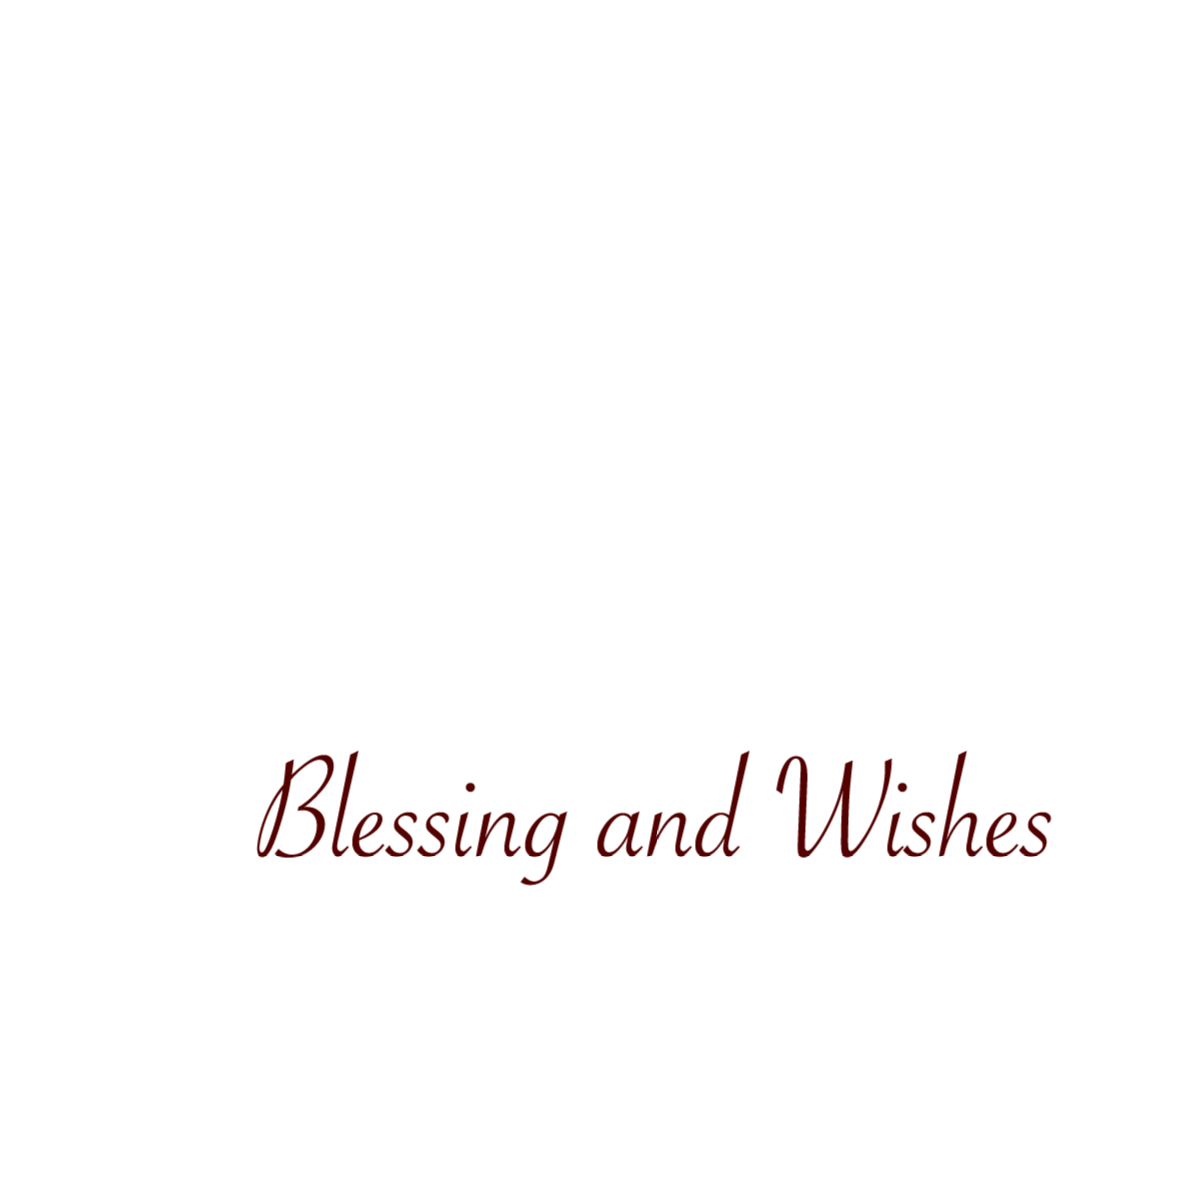
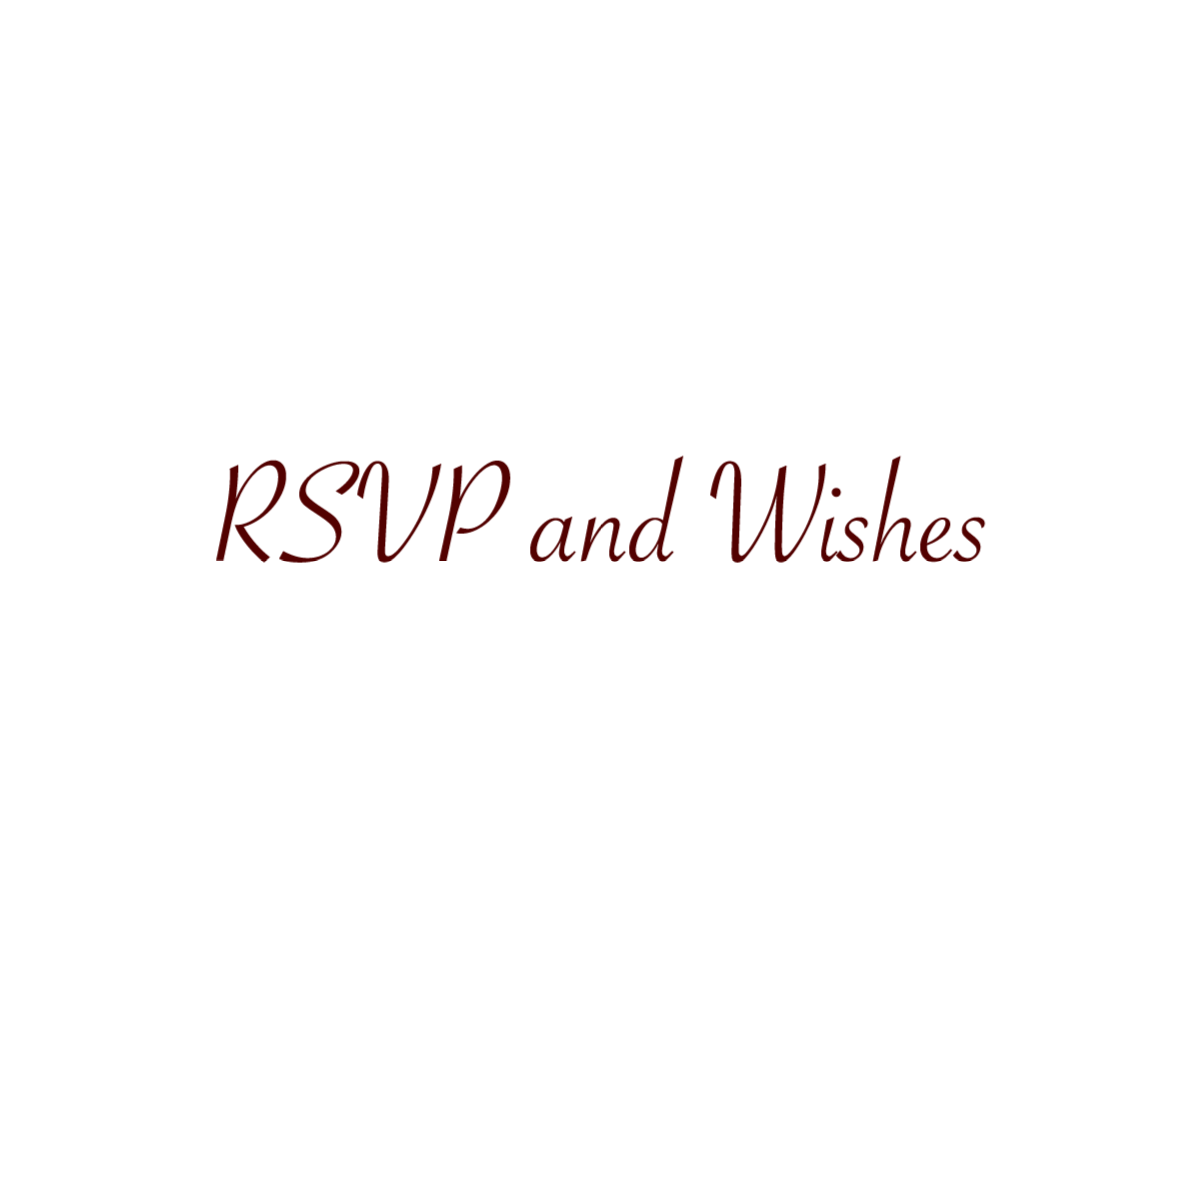
optimize performance and tone

Changed region(s): [[0.2134, 0.6401, 0.884, 0.7316], [0.4268, 0.3963, 0.823, 0.4877], [0.1829, 0.3658, 0.4572, 0.4877]]

diff --git a/components/CinematicScene.tsx b/components/CinematicScene.tsx
@@ -52,7 +52,7 @@ function ParallaxContent({ tex, index, multiplier, zOffset = 0, width, height }:
     return (
         <mesh ref={ref} position={[0, 0, zOffset]}>
             <planeGeometry args={[width, height]} />
-            <meshBasicMaterial map={tex} transparent />
+            <meshBasicMaterial map={tex} transparent toneMapped={false} />
         </mesh>
     );
 }
@@ -95,33 +95,24 @@ function ResponsiveBackground({
     const meshHeight = baseHeight * bgHeightMultiplier;
     const meshAspect = meshWidth / meshHeight;
     
-    // To prevent texture squishing/distortion, we clone the texture if scaled
-    // and adjust the repeat/offset to maintain "cover" aspect ratio.
-    const finalTex = useMemo(() => {
-        if (bgHeightMultiplier === 1 && bgWidthMultiplier === 1) {
-            return tex;
-        }
-        
-        const cloned = tex.clone();
-        
+    // Adjust texture transformation directly on the original instance safely 
+    // instead of wasting GPU allocations on .clone()
+    useEffect(() => {
+        if (!tex) return;
         if (meshAspect > imageAspect) {
-            // Mesh is wider than image: crop image vertically
-            cloned.repeat.set(1, imageAspect / meshAspect);
-            cloned.offset.set(0, (1 - imageAspect / meshAspect) / 2);
+            tex.repeat.set(1, imageAspect / meshAspect);
+            tex.offset.set(0, (1 - imageAspect / meshAspect) / 2);
         } else {
-            // Mesh is taller than image: crop image horizontally
-            cloned.repeat.set(meshAspect / imageAspect, 1);
-            cloned.offset.set((1 - meshAspect / imageAspect) / 2, 0);
+            tex.repeat.set(meshAspect / imageAspect, 1);
+            tex.offset.set((1 - meshAspect / imageAspect) / 2, 0);
         }
-        
-        cloned.needsUpdate = true;
-        return cloned;
-    }, [tex, bgHeightMultiplier, bgWidthMultiplier, meshAspect, imageAspect]);
+        tex.needsUpdate = true;
+    }, [tex, meshAspect, imageAspect]);
 
     return (
         <mesh position={[0, 0, LAYERS.BACKGROUND]} scale={[meshWidth, meshHeight, 1]} renderOrder={-10}>
             <planeGeometry />
-            <meshBasicMaterial map={finalTex} color="#ffffff" transparent={true} depthTest={false} depthWrite={false} />
+            <meshBasicMaterial map={tex} color="#ffffff" transparent={true} depthTest={false} depthWrite={false} toneMapped={true} />
         </mesh>
     );
 }
@@ -159,7 +150,7 @@ function SlideOrnament({ tex, x = 0, y = 0, bgW, bgH, size, delay, multiplier = 
     return (
         <mesh ref={ref} position={[worldX, worldY, LAYERS.ORNAMENTS + zOffset]}>
             <planeGeometry args={[size, size / aspect]} />
-            <meshBasicMaterial map={tex} transparent />
+            <meshBasicMaterial map={tex} transparent toneMapped={true} />
         </mesh>
     );
 }
@@ -221,7 +212,7 @@ function SlideText({ tex, x = 0, y = 0, bgW, bgH, size, delay, multiplier = 0, z
             onPointerOut={handlePointerOut}
         >
             <planeGeometry args={[size, size / aspect]} />
-            <meshBasicMaterial map={tex} transparent />
+            <meshBasicMaterial map={tex} transparent toneMapped={true} />
         </mesh>
     );
 }
@@ -264,7 +255,7 @@ function SlideHeartbeat({ tex, x = 0, y = 0, bgW, bgH, size, delay = 0, multipli
     return (
         <mesh ref={ref} position={[worldX, worldY, LAYERS.TEXT + zOffset]}>
             <planeGeometry args={[size, size / aspect]} />
-            <meshBasicMaterial map={tex} transparent />
+            <meshBasicMaterial map={tex} transparent toneMapped={true} />
         </mesh>
     );
 }
@@ -323,7 +314,7 @@ function SlideRotate({ tex, x = 0, y = 0, bgW, bgH, size, delay = 0, multiplier 
         <group ref={ref} position={[worldX, worldY, LAYERS.TEXT + zOffset]}>
             <mesh position={[0, meshOffsetY, 0]}>
                 <planeGeometry args={[size, height]} />
-                <meshBasicMaterial map={tex} transparent />
+                <meshBasicMaterial map={tex} transparent toneMapped={true}/>
             </mesh>
         </group>
     );
@@ -359,7 +350,7 @@ function SlidePicture({ tex, x = 0, y = 0, bgW, bgH, size, delay, multiplier = 0
     return (
         <mesh ref={ref} position={[worldX, worldY, LAYERS.ORNAMENTS + zOffset]}>
             <planeGeometry args={[size, size / aspect]} />
-            <meshBasicMaterial map={tex} transparent />
+            <meshBasicMaterial map={tex} transparent toneMapped={false}/>
         </mesh>
     );
 }
@@ -417,7 +408,7 @@ function SlideHtml({ x = 0, y = 0, bgW, bgH, text, link, multiplier = 0, zOffset
                   href={link} 
                   target="_blank" 
                   rel="noopener noreferrer"
-                  className="px-5 py-2 text-[#F8F3ED] text-xs font-serif tracking-widest hover:bg-[#32101c]/80 transition-all rounded whitespace-nowrap flex items-center gap-2"
+                  className={`px-5 py-2 text-xs font-sans tracking-widest hover:bg-[#32101c]/80 transition-all rounded whitespace-nowrap flex items-center gap-2 ${link.includes('maps') ? "text-[#4B182B]" : "text-[#F8F3ED]"}`}
                   style={{ pointerEvents: 'auto' }}
                 >
                   {isMap ? (
@@ -879,9 +870,10 @@ export function CinematicScene() {
 
   useLayoutEffect(() => {
     const isMobile = typeof navigator !== 'undefined' && /Mobi|Android|iPhone/i.test(navigator.userAgent);
-    const targetAnisotropy = isMobile ? 4 : 8;
+    
     loadedTextures.forEach(tex => {
-      tex.anisotropy = targetAnisotropy;
+      // Mobile devices do not need high anisotropy for flat layout planes
+      tex.anisotropy = isMobile ? 1 : 4; 
       tex.minFilter = THREE.LinearMipmapLinearFilter;
       tex.magFilter = THREE.LinearFilter;
       tex.colorSpace = THREE.SRGBColorSpace;
@@ -1178,8 +1170,8 @@ export function CinematicScene() {
     { type: 'SlideText', tex: text7ResepsiTex, x: 0, y: -60.5, sizeMult: 0.6, delay: 2, multiplier: 0.12, zOffset: 2, animation: false },
     { type: 'SlideText', tex: text7ResepsiTglTex, x: 0, y: -72.5, sizeMult: 0.55, delay: 2, multiplier: 0.12, zOffset: 2, animation: false },
     { type: 'SlideText', tex: text7AlamatTex, x: 0, y: -77, sizeMult: 0.6, delay: 2, multiplier: 0.12, zOffset: 2, animation: false },
-    { type: 'SlideText', tex: text7AlamatJlnTex, x: 1, y: -81.5, sizeMult: 0.55, delay: 2, multiplier: 0.12, zOffset: 2, animation: false, link: "https://maps.app.goo.gl/KFAq19GNW1pxqRPc8" },
-    { type: 'SlideHtml', x: 1, y: -90.5, sizeRaw: 0.2, delay: 1, multiplier: 0.12, link: "https://maps.app.goo.gl/KFAq19GNW1pxqRPc8", text: "Open Maps" },
+    { type: 'SlideText', tex: text7AlamatJlnTex, x: 1, y: -81.5, sizeMult: 0.55, delay: 2, multiplier: 0.12, zOffset: 2, animation: false, link: "https://maps.app.goo.gl/DL9GCEW3aqSUiKGh9" },
+    { type: 'SlideHtml', x: 1, y: -90.5, sizeRaw: 0.2, delay: 1, multiplier: 0.12, link: "https://maps.app.goo.gl/DL9GCEW3aqSUiKGh9", text: "Open Maps" },
     { type: 'SlideRotate', tex: bunga1Tex, x: 27, y: -38.5, sizeMult: 0.5, delay: 2, multiplier: 0.12, zOffset: 2, rotateSpeed: 1.5, rotateAmount: 0.05, pivot: "middle" },
     { type: 'SlideRotate', tex: bunga3Tex, x: -27, y: -59, sizeMult: 0.5, delay: 2, multiplier: 0.12, zOffset: 2, rotateSpeed: 1.5, rotateAmount: 0.05, pivot: "middle" }
   ];
@@ -1200,7 +1192,7 @@ export function CinematicScene() {
   ];
 
   const rsvpSlideConfig = [
-    { type: 'SlideText', tex: text111Tex, x: -2, y: -50.5, sizeMult: 0.8, delay: 2, multiplier: 0.12, zOffset: 2 },
+    { type: 'SlideText', tex: text111Tex, x: -0, y: -62.5, sizeMult: 0.8, delay: 2, multiplier: 0.12, zOffset: 2 },
     { type: 'SlideForm', x: 1, y: -94.5, delay: undefined, multiplier: 0.12, zOffset: 2 }
   ];
 

diff --git a/app/page.tsx b/app/page.tsx
@@ -7,6 +7,7 @@
 import React, { Suspense } from 'react';
 import { Canvas } from '@react-three/fiber';
 import { ScrollControls } from '@react-three/drei';
+import * as THREE from 'three';
 import { CinematicScene, getScrollDist } from '@/components/CinematicScene';
 import { WEDDING_CONFIG, getAssetPath } from '@/app/weddingConfig';
 import { MusicPlayer } from '@/components/MusicPlayer';
@@ -32,7 +33,8 @@ export default function App() {
           powerPreference: "high-performance",
           stencil: false,
           depth: true,
-          alpha: true
+          alpha: true,
+          toneMapping: THREE.ACESFilmicToneMapping,
         }}
       >
         <Suspense fallback={null}>